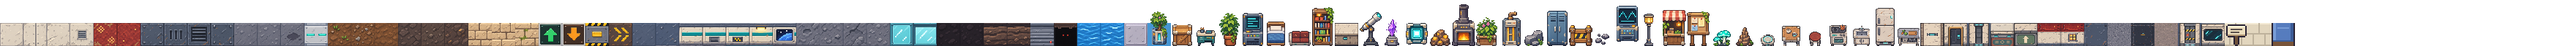
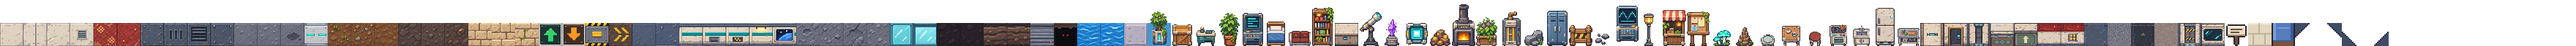
Reserve rounded-corner tile slots; clean sign post tile
Claude-Session: https://claude.ai/code/session_013NFuzCtsXhGx4vnyseTSue

Changed region(s): [[0.9062, 0.6875, 0.9375, 1.0], [0.8438, 0.8125, 0.875, 1.0], [0.8438, 0.5, 0.9062, 0.6562]]

diff --git a/tools/build.py b/tools/build.py
@@ -452,6 +452,15 @@ t = Tile("f", "a").r(0, 0, 15, 15, (226, 214, 190)).r(0, 0, 15, 0, (244, 234, 21
 # "B" the foot of a bed. A bed is two tiles long: the head ("b") and the foot below it.
 t = Tile("o", "B").r(1, 0, 14, 12, (86, 124, 190)).r(1, 0, 2, 12, (120, 156, 214)).r(13, 0, 14, 12, (60, 92, 150)).r(1, 13, 14, 15, (120, 84, 56)).r(1, 12, 14, 12, (60, 92, 150)).r(4, 3, 11, 3, (120, 156, 214))
 t.r(0, 0, 0, 15, OUTLINE).r(15, 0, 15, 15, OUTLINE)
+# Rounded corners (not used by the game yet: reserved so the art can be drawn). Each is a piece of wall
+# filling one corner of the tile, see-through elsewhere, laid over the floor where a round room steps.
+for n_, ch_ in enumerate("<>{}"):
+    t = Tile("o", ch_)
+    for yy_ in range(16):
+        for xx_ in range(16):
+            ex_, ey_ = (xx_ if n_ in (0, 2) else 15 - xx_), (yy_ if n_ in (0, 1) else 15 - yy_)
+            if ex_ + ey_ <= 9:
+                t.r(xx_, yy_, xx_, yy_, (64, 76, 100) if ex_ + ey_ < 9 else (40, 46, 66))
 T.save(art("tiles.png"))
 
 # When tiles.png is hand-made art, the generator does not overwrite it. It only fills in:
